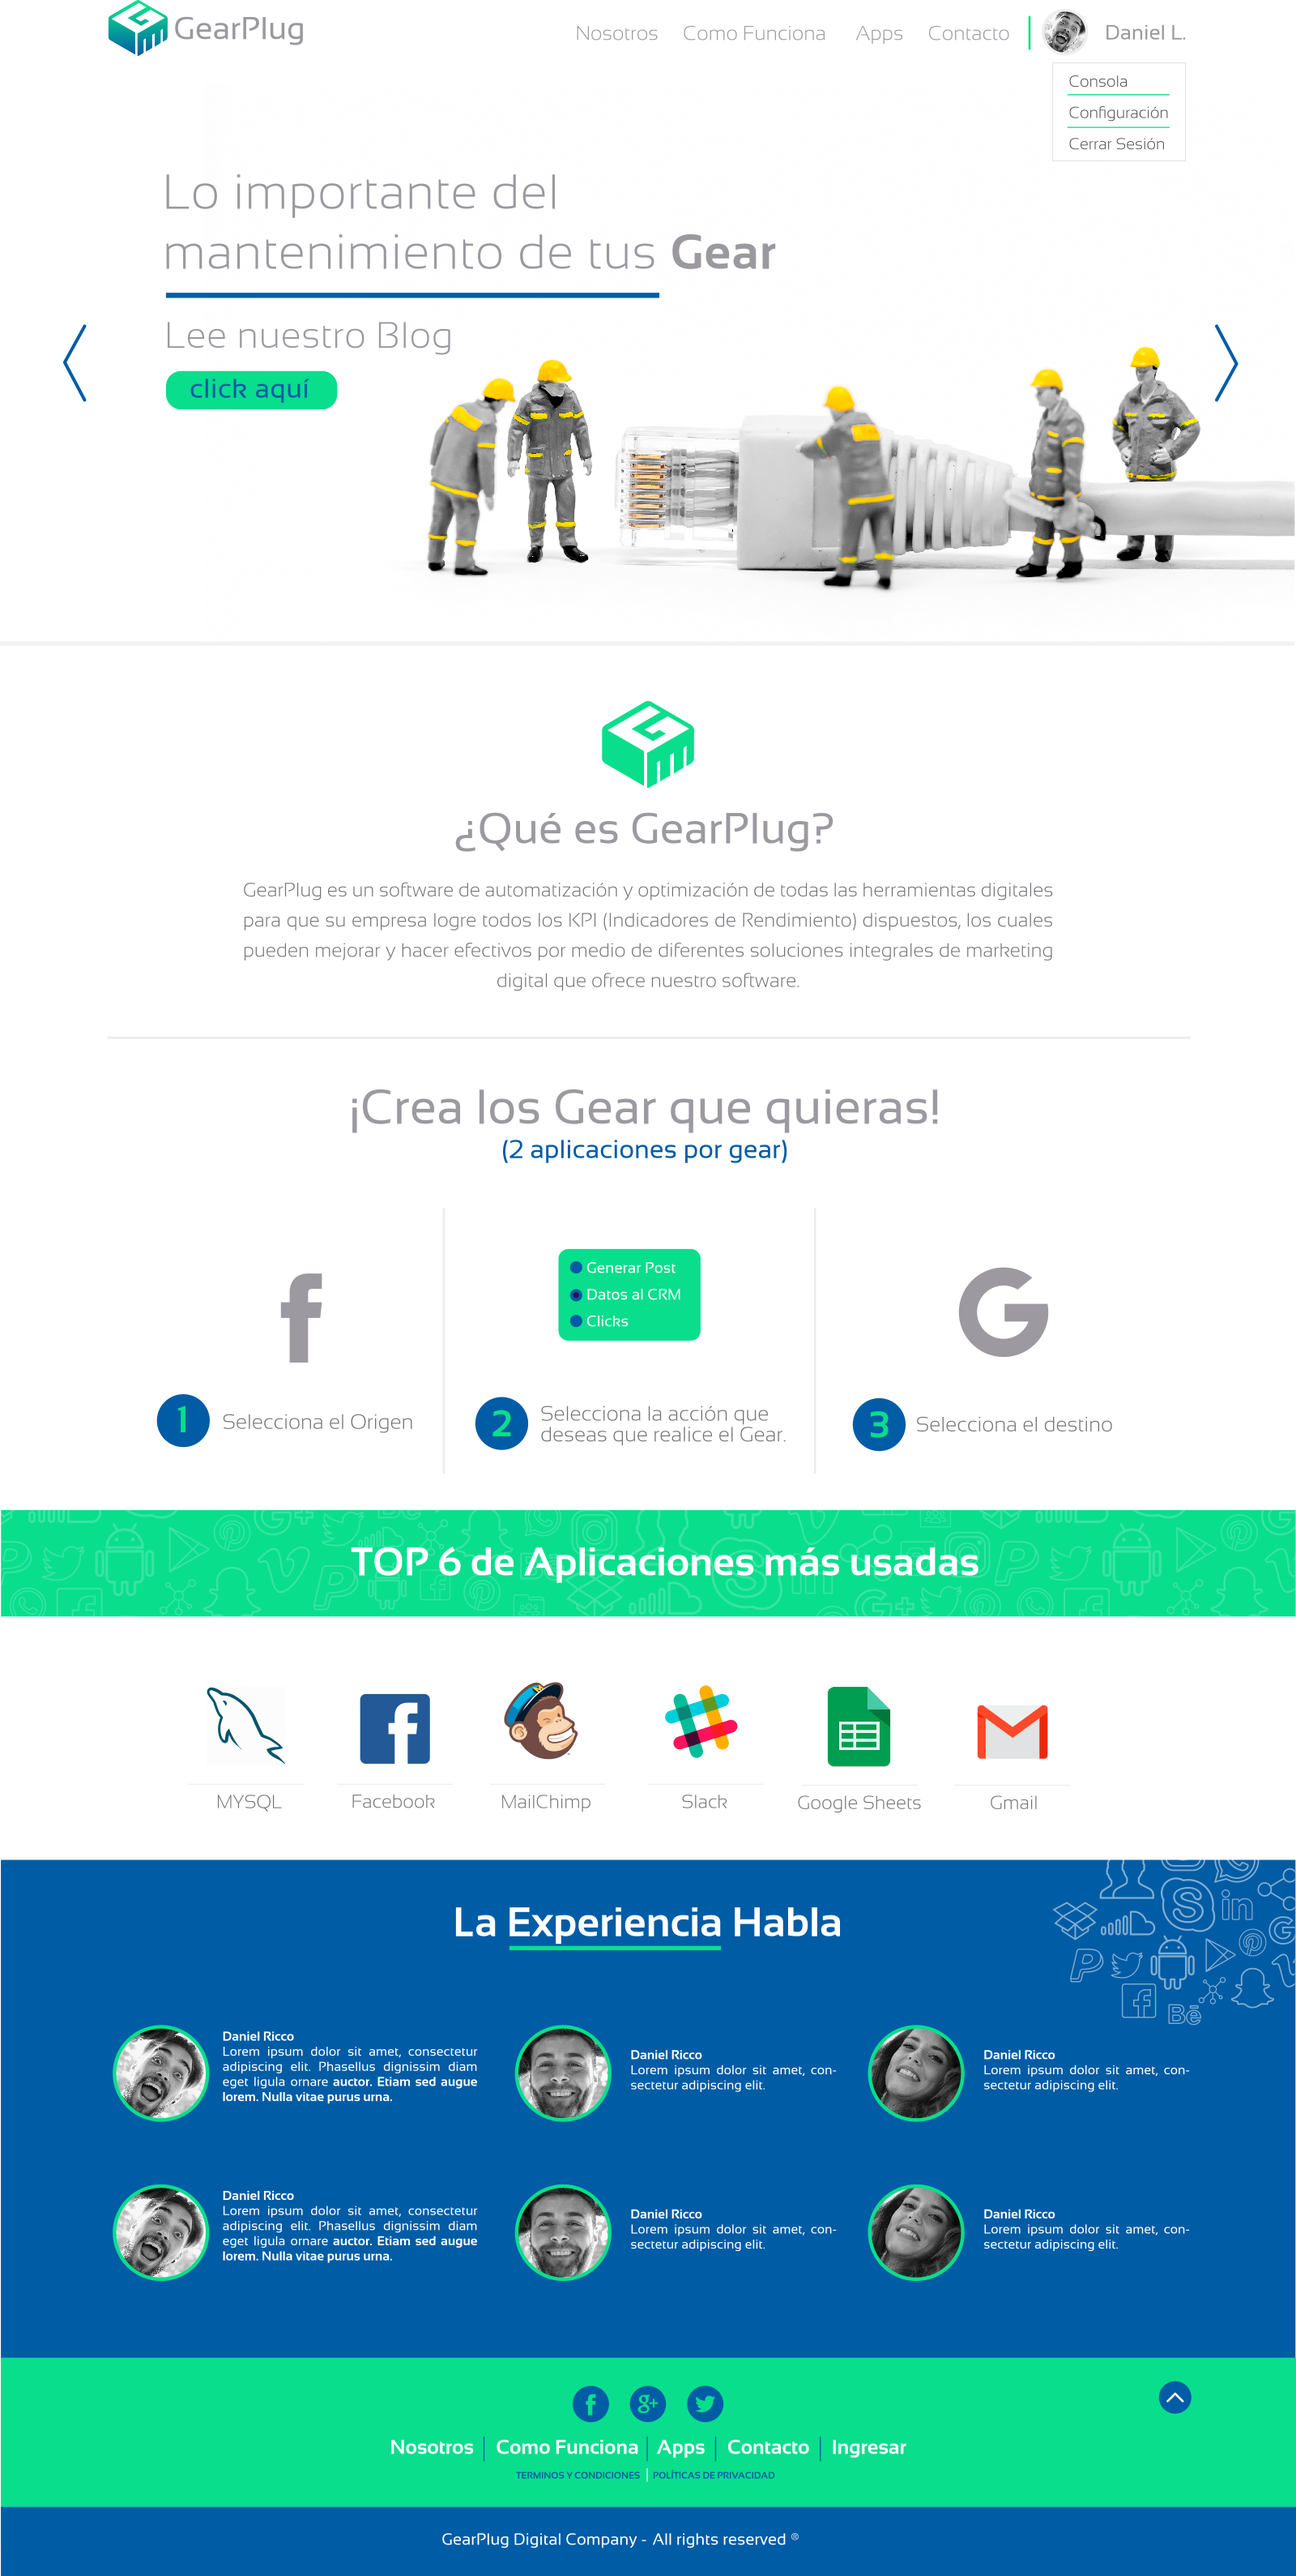
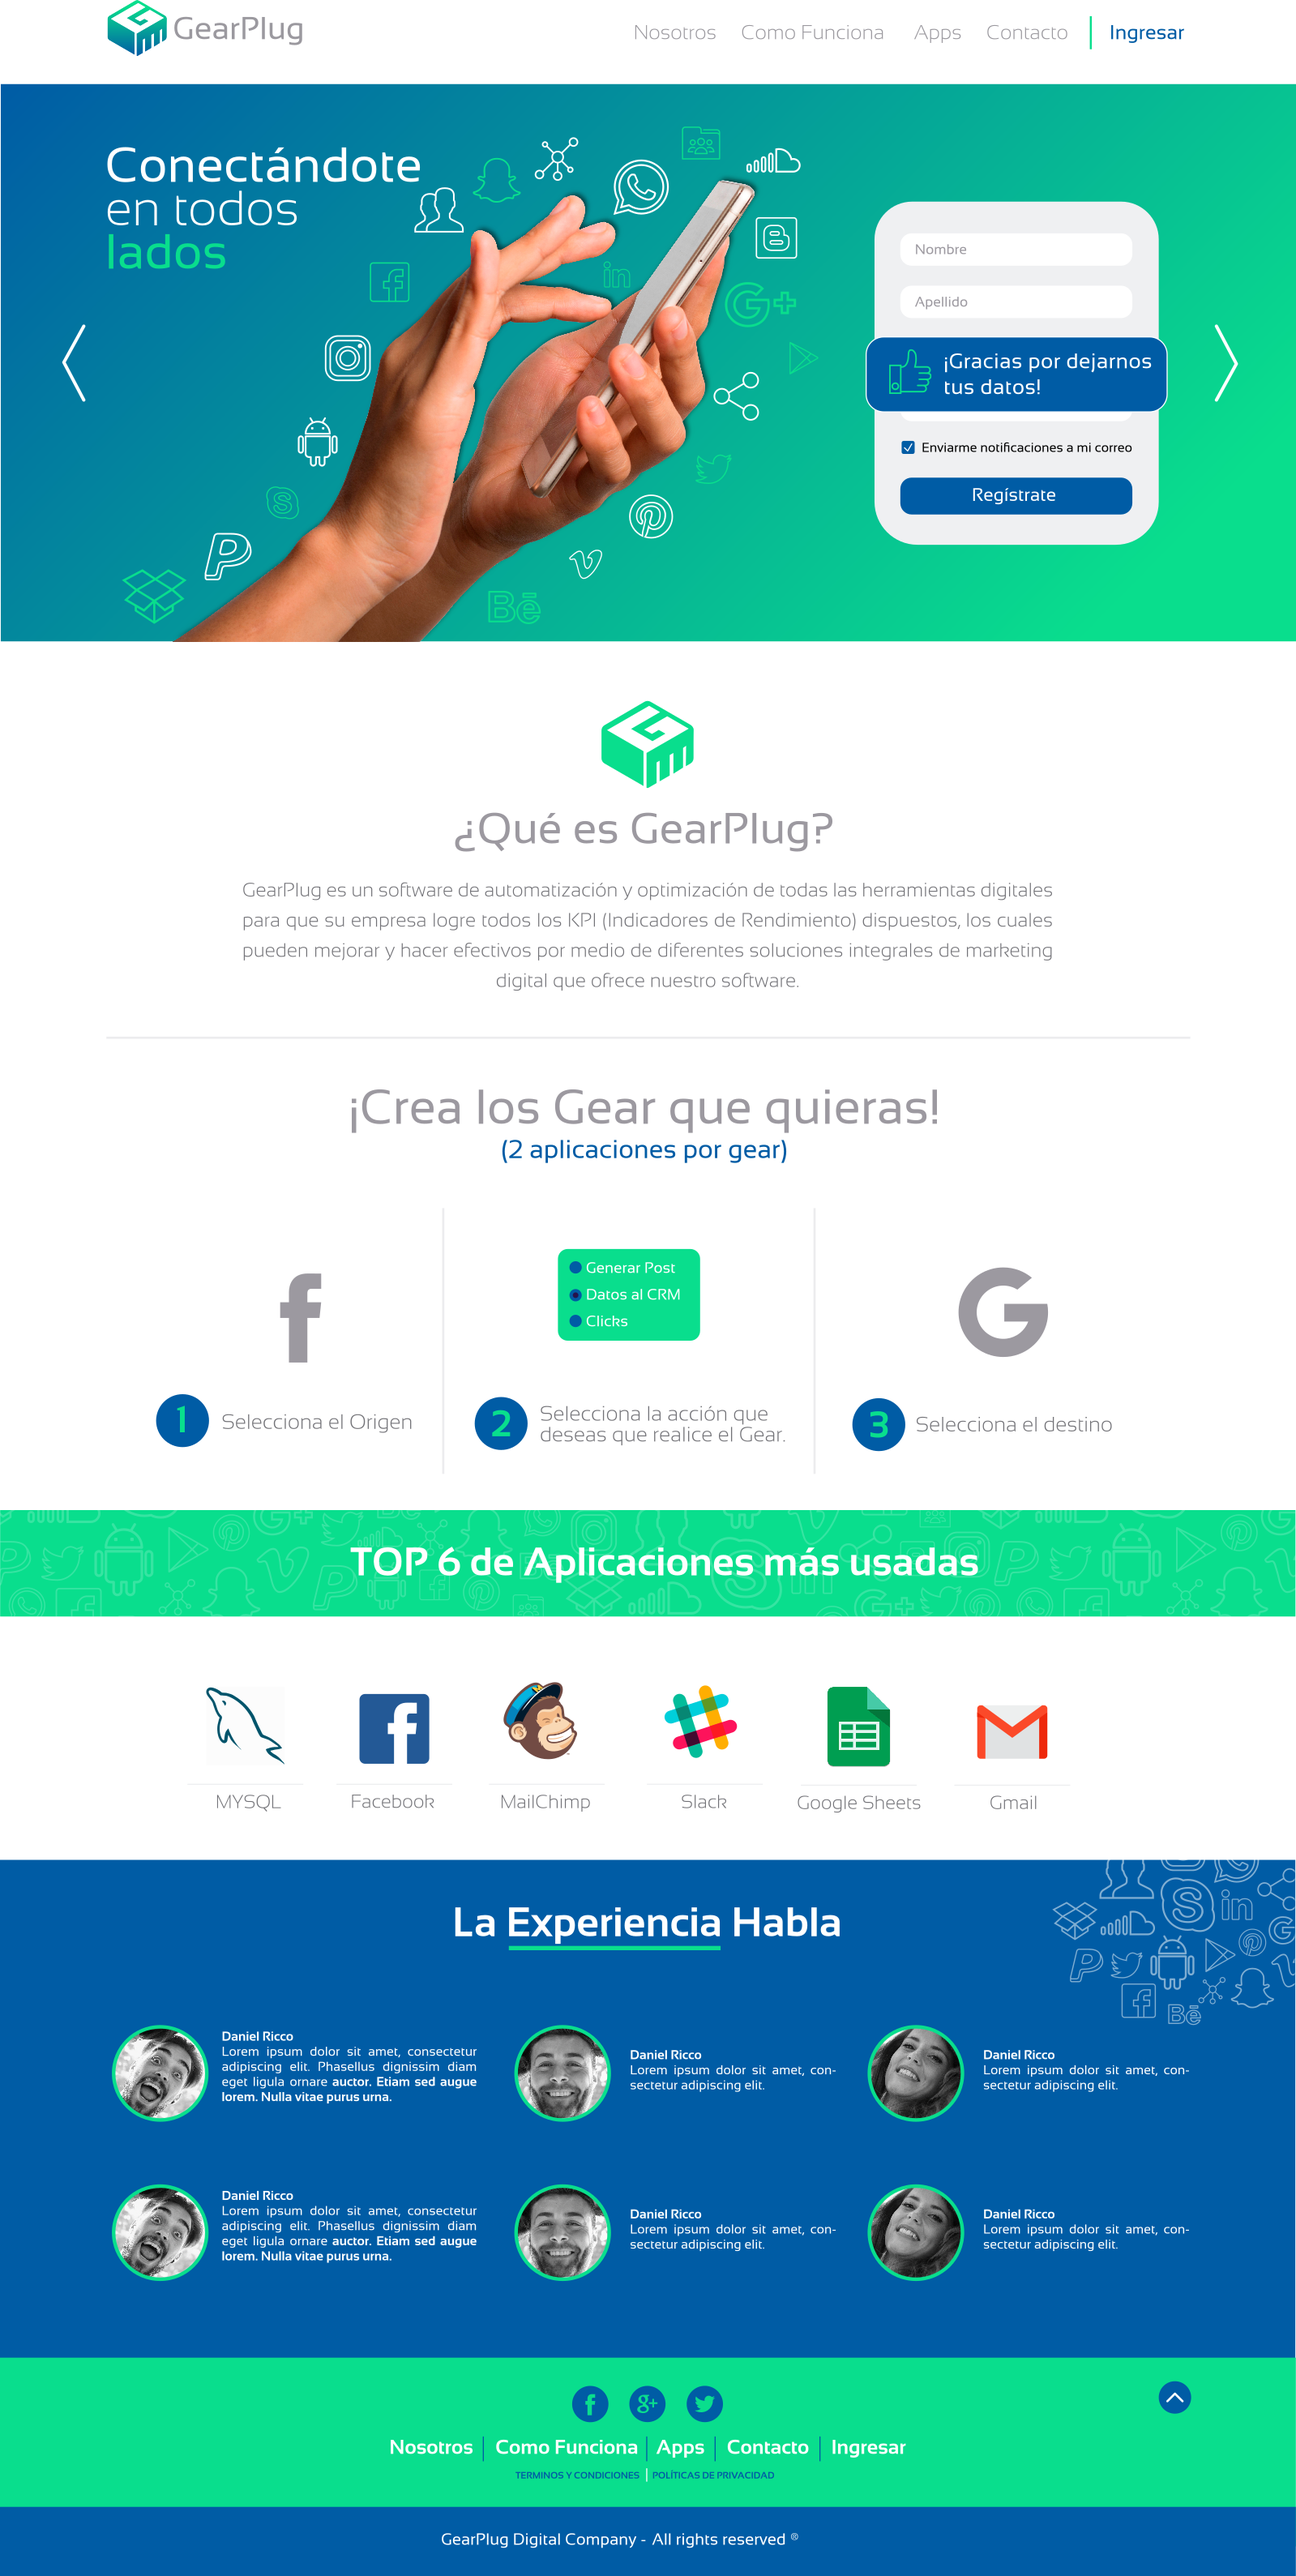
Cambios finales landing Desktop

diff --git a/templates/layouts/page_base.html b/templates/layouts/page_base.html
@@ -79,27 +79,40 @@
                         <div class="row not-margin">
                             <div class="col-md-12 bg_nets text-center">
                                 <div class="col-md-12">
-                                    <a href="#"> <img src="{% static 'img/landing/facebook1.png' %}" class="padding-nets"> </a>
-                                    <a href="#"> <img src="{% static 'img/landing/twitter.png' %}" class="padding-nets"> </a>
+                                    <a href="#"> <img src="{% static 'img/landing/facebook1.png' %}"
+                                                      class="padding-nets"></a>
+                                    <a href="#"> <img src="{% static 'img/landing/gplus.png' %}" class="padding-nets">
+                                    </a>
+                                    <a href="#"> <img src="{% static 'img/landing/twitter.png' %}" class="padding-nets">
+                                    </a>
                                 </div>
                                 <div class="col-md-12 text-menu">
                                     <a href="{% url 'landing:about' %}" class="border-menu">{% trans 'Nosotros' %}</a>
-                                    <a href="{% url 'landing:steps' %}" class="border-menu">{% trans 'Cómo Funciona' %}</a>
-                                    <a href="{% url 'landing:apps_directory' %}" class="border-menu">{% trans 'Apps' %}</a>
+                                    <a href="{% url 'landing:steps' %}" class="border-menu">
+                                        {% trans 'Cómo Funciona' %}
+                                    </a>
+                                    <a href="{% url 'landing:apps_directory' %}" class="border-menu">
+                                        {% trans 'Apps' %}
+                                    </a>
                                     <a href="{% url 'landing:contact' %}" class="border-menu">{% trans 'Contacto' %}</a>
                                     <a href="{% url 'account_login' %}">{% trans 'Ingresar' %}</a>
                                 </div>
+                                <div class="col-md-12 privacy">
+                                    <a href="{% url 'landing:terms' %}" class="border-privacy">
+                                        {% trans 'TERMINOS Y CONDICIONES' %}
+                                    </a>
+                                    <a href="{% url 'landing:privacy' %}"> {% trans 'POLÍTICAS DE PRIVACIDAD' %} </a>
+                                </div>
                             </div>
                             <div class="col-md-12 bg_footer text-center text-footer">
-                                <a href="{% url 'landing:index' %}">www.gearplug.com</a> - All rights reserved &reg; -
-                                <a href="{% url 'landing:terms' %}">Términos y Condiciones</a> -
-                                <a href="{% url 'landing:privacy' %}">Políticas de Privacidad</a>
+                                <a href="{% url 'landing:index' %}">GearPlug</a> - All rights reserved &reg;
                             </div>
                         </div>
                     </div>
                 </footer>
             {% endblock %}
         {% endblock %}
+        <span class="ir-arriba icon-arrow-up2"></span>
     </div>
     {% block scripts_gear %}{% endblock %}
 {% endblock %}

diff --git a/staticfiles/css/landing/style_page.css b/staticfiles/css/landing/style_page.css
@@ -1,7 +1,5 @@
 .ayuda {
-    /*background: url(../../img/landing/plantilla.png) no-repeat scroll 50% 751px;*/
-    /*background: url(../../img/landing/plantilla.png) no-repeat scroll -459px 21px;*/
-    /*background-size: cover;*/
+    /*background: url(../../img/landing/plantilla.png) no-repeat scroll 50% 17px;*/
 }
 
 .bg_page {
@@ -19,7 +17,7 @@
 
 /* Header */
 .nav_spaces {
-    margin: 1% 0 1.9% 0;
+    margin: 1% 0 1% 0;
 }
 
 ul.menu{
@@ -54,21 +52,21 @@ ul.menu li.menu-login a {
 /* Footer */
 .bg_nets {
     background-color: #09DE8D;
-    padding: 2.6% 0 2% 0;
+    padding: 1.8% 0 1.7% 0;
 }
 
 .padding-nets {
-    padding-right: 1.2%;
+    padding-right: 0.8%;
 }
 
 .text-menu {
-    padding-top: 1%;
+    padding-top: 0.8%;
 }
 
 .text-menu a{
     color: white;
     font-family: 'Sansation Bold';
-    font-size: 1.75em;
+    font-size: 1.7em;
     padding: 0 0.8%;
     text-decoration: none;
 }
@@ -79,7 +77,7 @@ ul.menu li.menu-login a {
 
 .bg_footer {
     background-color: #005CA5;
-    padding: 1.5% 0 1.7% 0;
+    padding: 1.5% 0 1.5% 0;
 }
 
 .text-footer {
@@ -147,6 +145,23 @@ li.menu-login.dropdown.profile ul.dropdown-menu li a:focus, li.menu-login.dropdo
 li.menu-login.dropdown.profile ul li p{
     margin: 0;
     padding-bottom: 2.6%;
+}
+
+.privacy {
+    margin-top: 0.6%;
+}
+
+.privacy a {
+    color: #005CA5;
+    font-family: "Sansation Bold";
+    font-size: 0.8em;
+    text-decoration: none;
+}
+
+.privacy .border-privacy {
+    border-right: 1px solid white;
+    margin-right: 0.4%;
+    padding: 0.1% 0.4% 0.1% 0;
 }
 
 @media only screen and (max-width:1600px) {

diff --git a/templates/landing/index.html b/templates/landing/index.html
@@ -31,16 +31,16 @@
                     </div>
                 {% endif %}
             </div>
-            <a class="left carousel-control not-bg" href="#carousel-example-generic" data-slide="prev">
-                <span class="slide-arrow">
-                    <img src="{% static 'img/landing/arrow_left.png' %}">
-                </span>
-            </a>
-            <a class="right carousel-control not-bg" href="#carousel-example-generic" data-slide="next">
-                <span class="slide-arrow">
-                    <img src="{% static 'img/landing/arrow_right.png' %}">
-                </span>
-            </a>
+{#            <a class="left carousel-control not-bg" href="#carousel-example-generic" data-slide="prev">#}
+{#                <span class="slide-arrow">#}
+{#                    <img src="{% static 'img/landing/arrow_left.png' %}">#}
+{#                </span>#}
+{#            </a>#}
+{#            <a class="right carousel-control not-bg" href="#carousel-example-generic" data-slide="next">#}
+{#                <span class="slide-arrow">#}
+{#                    <img src="{% static 'img/landing/arrow_right.png' %}">#}
+{#                </span>#}
+{#            </a>#}
         </div>
         {% if request.user.is_authenticated == False %}
             <div class="bg-form">

diff --git a/staticfiles/css/landing/index.css b/staticfiles/css/landing/index.css
@@ -107,7 +107,7 @@
 }
 
 .index-space8 {
-    margin-top: 5.2%;
+    margin-top: 2.7%;
 }
 
 .text-what {
@@ -223,7 +223,7 @@
     color: white;
     font-family: "Sansation";
     font-size: 1.2em;
-    margin-top: 0.6%;
+    margin-top: 5.6%;
 }
 
 .selected_page {
@@ -361,6 +361,10 @@ img.img-comments {
         margin: -0.4% 0 0 39%;
         width: 16.9%;
     }
+
+    .name11 {
+        margin-top: 6.6%;
+    }
 }
 
 @media only screen and (max-width:1440px) {
@@ -389,6 +393,14 @@ img.img-comments {
     .hr-comments {
         margin: -0.4% 0 0 37.7%;
         width: 18.9%;
+    }
+
+    .not-padding{
+        padding: 0;
+    }
+
+    .name11 {
+        margin-top: 4.6%;
     }
 }
 
@@ -430,6 +442,7 @@ img.img-comments {
     }
 
     .name11 {
+        margin-top: -0.4%;
         padding-left: 0%;
     }
 

diff --git a/staticfiles/css/landing/aboutus.css b/staticfiles/css/landing/aboutus.css
@@ -52,7 +52,7 @@
     font-size: 3.9em;
     color: #9e9ba2;
     text-align: center;
-    margin-top: 5.6%;
+    margin-top: 4.6%;
 }
 
 .aboutus-services .boxes .box {

diff --git a/staticfiles/css/landing/contactus.css b/staticfiles/css/landing/contactus.css
@@ -14,6 +14,7 @@
     line-height: 5em;
     text-align: center;
     position: absolute;
+    margin-left: 8%;
 }
 
 .contactus-text .text1 {
